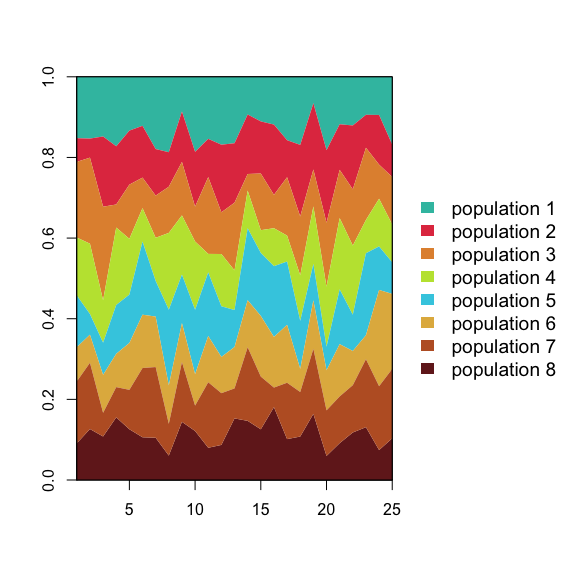
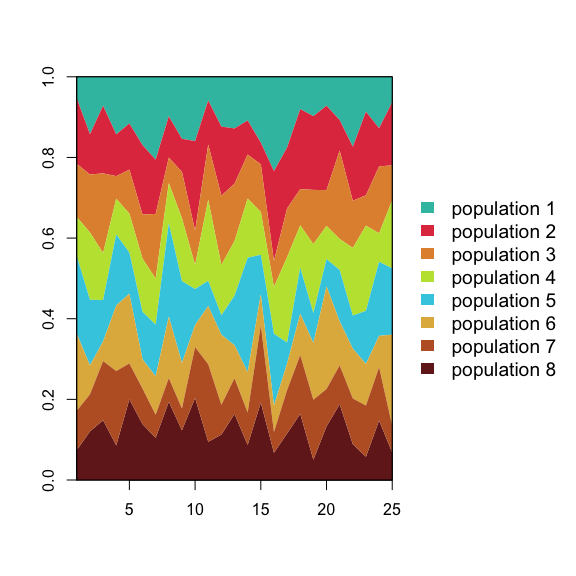
vect2filed modified

Changed region(s): [[0.125, 0.1875, 0.6875, 0.8125], [0.125, 0.75, 0.1562, 0.7812]]

diff --git a/README.md b/README.md
@@ -1,7 +1,9 @@
 Description
 ===========
 
-*graphicsutils* is an R package that includes a set of graphical functions as the valuable [*plotrix*](http://cran.r-project.org/web/packages/plotrix/index.html) package do. It is intended to use help users to deal with typical issues they may encounter when they use the core package *graphics*. Note that *graphicsutils* is not intended to be used with [ggplot2](http://cran.r-project.org/web/packages/ggplot2/index.html) package.
+*graphicsutils* is an R package that includes a set of graphical functions as the valuable [*plotrix*](http://cran.r-project.org/web/packages/plotrix/index.html) package do. This package is not intended to be submitted to the CRAN. First, because many of these functions already exist in other package (in a different form though). Second, because it serves me as a experiment for many aspect of coding. Nevertheless this package may help users to deal with typical issues they may encounter when they use the core package *graphics*. If some of these function turn out to be really valuable, then they will likely appear in a different package which will be submit to the CRAN.
+
+Also, *graphicsutils* is not intended to be used with [ggplot2](http://cran.r-project.org/web/packages/ggplot2/index.html) package. Note that
 
 Travis: [![Travis](https://travis-ci.org/KevCaz/graphicsutils.svg?branch=master)](https://travis-ci.org/KevCaz/graphicsutils)
 
@@ -21,8 +23,8 @@ Then, load it:
 library(graphicsutils)
 ```
 
-Principal feature
-=================
+Main features
+=============
 
 Empty your plot
 ---------------
@@ -31,7 +33,7 @@ Empty your plot
 plot0(c(0,1),c(0,1))
 ```
 
-![](inst/assets/img/unnamed-chunk-4-1.png) Empty isn't it ?
+![](inst/assets/img/unnamed-chunk-4-1.png)<!-- --> Empty isn't it ?
 
 Add a box
 ---------
@@ -39,13 +41,13 @@ Add a box
 ``` r
 par(mar=rep(2,4))
 plot0()
-box2(which="figure",lwd=2, col2fill=2)
-box2(side=12, lwd=2, col2fill=8)
+box2(which="figure",lwd=2, col2fill="grey30")
+box2(side=12, lwd=2, col2fill="grey80")
 axis(1)
 axis(2)
 ```
 
-![](inst/assets/img/unnamed-chunk-5-1.png)
+![](inst/assets/img/unnamed-chunk-5-1.png)<!-- -->
 
 A stacked areas chart
 ---------------------
@@ -55,7 +57,7 @@ x <- data.frame(matrix(runif(200,2,10), 8, 25))
 stackedAreas(x)
 ```
 
-![](inst/assets/img/unnamed-chunk-6-1.png)
+![](inst/assets/img/unnamed-chunk-6-1.png)<!-- -->
 
 Polar plot
 ----------
@@ -64,7 +66,7 @@ Polar plot
 polarPlot(1:40, stats::runif(40), to=1.9*pi, col="grey30", border="grey80")
 ```
 
-![](inst/assets/img/unnamed-chunk-7-1.png)
+![](inst/assets/img/unnamed-chunk-7-1.png)<!-- -->
 
 Get pretty ranges
 -----------------
@@ -72,9 +74,9 @@ Get pretty ranges
 ``` r
 vec <- stats::runif(20)
 range(vec)
-#> [1] 0.1574579 0.9291268
+#> [1] 0.09607092 0.99706903
 prettyRange(vec)
-#> [1] 0.15 0.95
+#> [1] 0.05 1.00
 prettyRange(c(3.85,3.88245))
 #> [1] 3.850 3.885
 ```
@@ -82,7 +84,7 @@ prettyRange(c(3.85,3.88245))
 Interactive functions
 ---------------------
 
-Some functions are interactive are fairly understandable ! So, try:
+Some functions are interactive and fairly understandable ! So, I suggest you try:
 
 ``` r
 pickColors()
